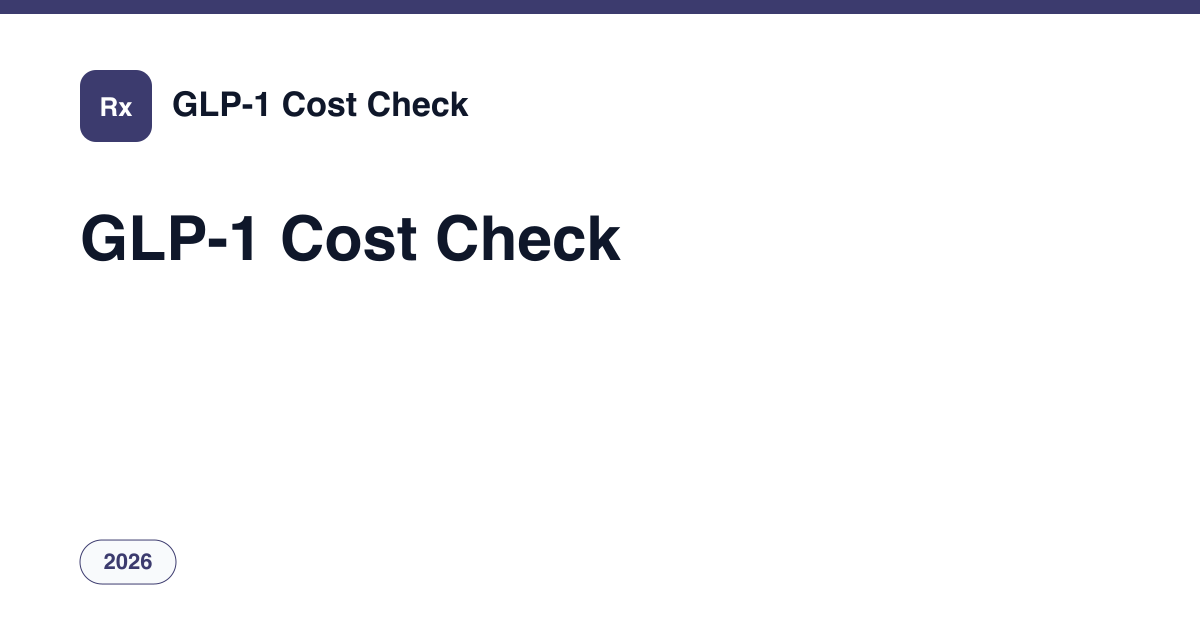
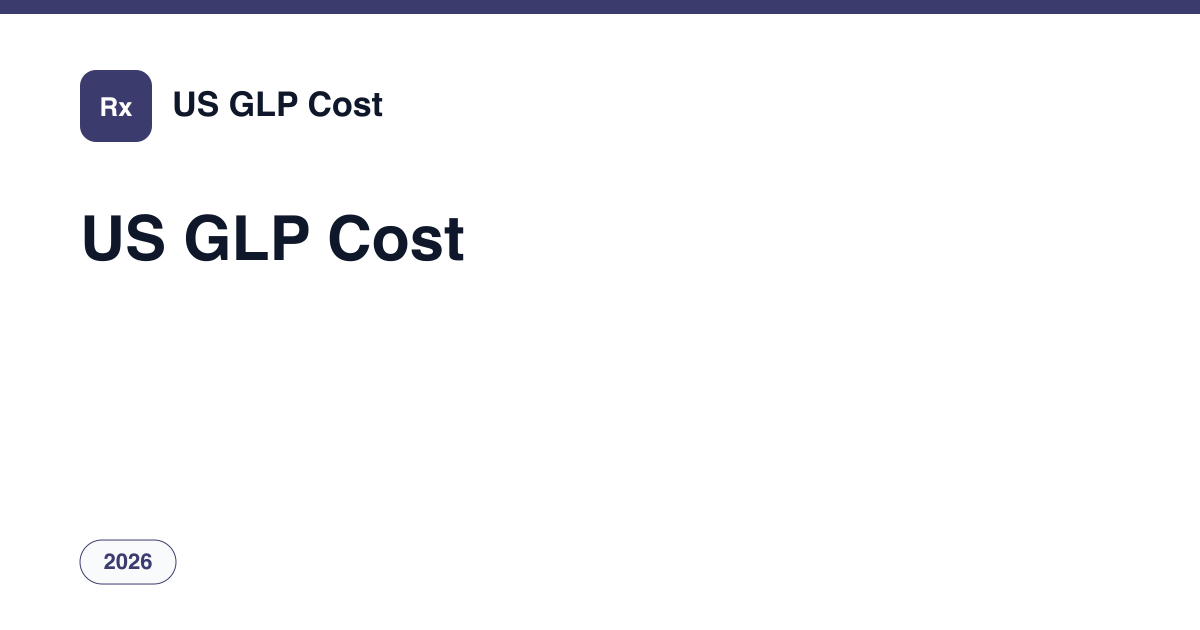
Nom du site : « US GLP Cost » (les mots du domaine, « GLP » en couleur) au lieu de « GLP-1 Cost Check » : en-tête, pied de page, nom pour Google (og:site_name, données structurées), manifest, image de partage, pages À propos, contact, légales et widgets ; menu du haut sans retour à la ligne ; titres

Changed region(s): [[0.0617, 0.3317, 0.5242, 0.4222], [0.1542, 0.1206, 0.4008, 0.2111]]

diff --git a/src/i18n/ui.ts b/src/i18n/ui.ts
@@ -6,7 +6,7 @@ const en = {
   asOf: 'Prices and rules for', lastUpdated: 'updated from the publishers’ pages on',
   footerValidated: 'Sources: TrumpRx.gov, CMS, Medicare.gov, Medicaid data, Novo Nordisk, Eli Lilly, FDA labels',
   footerBrowser: 'Calculated in your browser · nothing you type leaves your device · free, no account, nothing to buy',
-  footerDisclaimer: 'GLP-1 Cost Check is an independent site published by Radif Partners. It is not TrumpRx, CMS, Medicare, a state Medicaid agency, Novo Nordisk or Eli Lilly, sells no medicine and refers you to no pharmacy, telehealth service or insurer. Prices are estimates only, built from figures those bodies publish; they are not medical advice. Whether a drug is right for you is a decision for you and your prescriber.',
+  footerDisclaimer: 'US GLP Cost is an independent site published by Radif Partners. It is not TrumpRx, CMS, Medicare, a state Medicaid agency, Novo Nordisk or Eli Lilly, sells no medicine and refers you to no pharmacy, telehealth service or insurer. Prices are estimates only, built from figures those bodies publish; they are not medical advice. Whether a drug is right for you is a decision for you and your prescriber.',
   footerPopular: '', notFound: 'There is no page at this address. The calculator below still prices Ozempic, Wegovy, Zepbound, Mounjaro and Foundayo by dose and way of paying.',
   readMore: 'Read more',
 };
@@ -17,7 +17,7 @@ const es: typeof en = {
   asOf: 'Precios y reglas de', lastUpdated: 'actualizados desde las páginas oficiales el',
   footerValidated: 'Fuentes: TrumpRx.gov, CMS, Medicare.gov, datos de Medicaid, Novo Nordisk, Eli Lilly, fichas de la FDA',
   footerBrowser: 'Cálculo en su navegador · nada de lo que escribe sale de su equipo · gratis, sin cuenta, nada que comprar',
-  footerDisclaimer: 'GLP-1 Cost Check es un sitio independiente publicado por Radif Partners. No es TrumpRx, ni CMS, ni Medicare, ni una agencia estatal de Medicaid, ni Novo Nordisk, ni Eli Lilly; no vende medicamentos ni lo envía a ninguna farmacia, servicio de telesalud o aseguradora. Los precios son una estimación indicativa basada en cifras que publican esos organismos y no sustituye el consejo médico. Si un medicamento le conviene lo deciden usted y su médico.',
+  footerDisclaimer: 'US GLP Cost es un sitio independiente publicado por Radif Partners. No es TrumpRx, ni CMS, ni Medicare, ni una agencia estatal de Medicaid, ni Novo Nordisk, ni Eli Lilly; no vende medicamentos ni lo envía a ninguna farmacia, servicio de telesalud o aseguradora. Los precios son una estimación indicativa basada en cifras que publican esos organismos y no sustituye el consejo médico. Si un medicamento le conviene lo deciden usted y su médico.',
   footerPopular: '', notFound: 'No hay ninguna página en esta dirección. La calculadora de abajo sigue dando el precio de Ozempic, Wegovy, Zepbound, Mounjaro y Foundayo por dosis y forma de pago.',
   readMore: 'Leer más',
 };

diff --git a/src/data/site-config.ts b/src/data/site-config.ts
@@ -1,6 +1,8 @@
 /** Configuration centrale du site (générée par new-site.py). */
 export const SITE_URL = "https://usglpcost.com";
-export const SITE_NAMES: Record<string, string> = {"en": "GLP-1 Cost Check", "es": "GLP-1 Cost Check"};
+// Partie du nom en couleur dans l'en-tete ('' = aucune).
+export const BRAND_ACCENT = 'GLP';
+export const SITE_NAMES: Record<string, string> = {"en": "US GLP Cost", "es": "US GLP Cost"};
 export const LANG_TAGS: Record<string, string> = {"en": "en-US", "es": "es-US"};
 export const OG_LOCALES: Record<string, string> = {"en": "en_US", "es": "es_US"};
 export const LOCALE_TAG = 'en-US';
